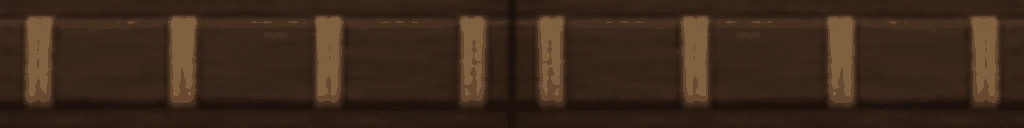
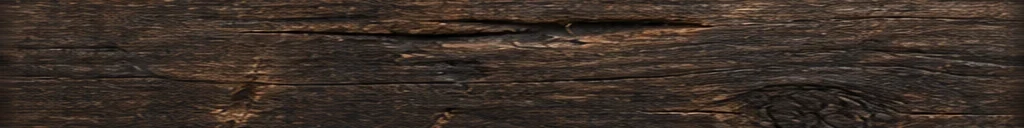
트레이 테두리 10종을 테마 모양으로 (GPT 초안 그림)
- 바다: 출렁이는 파도 · 물보라 / 벚꽃: 둥근 벚꽃나무 가지 고리 · 꽃송이 / 8비트: 진한 8비트 색 도트 테두리 · 도트 별 · 하트
- 왕실: 금속 금테 · 왕관 뾰족 장식 · 루비 · 사파이어 / 해적선 갑판: 네 꼭짓점 해적 깃발이 바람에 펄럭임 · 밧줄 매듭
- 마왕성: 톱니 흑철 · 악마 뿔 · 해골 · 칼날 가시 / 용암: 울퉁불퉁한 용암 바위 · 바위 덩어리 (틈이 빛남)
- 은하: 둥근 성운 고리 · 행성 · 초승달 · 별무리 / 빙하: 얼음 톱니 · 결정 · 고드름 · 눈 덮개 / 드래곤 둥지: 둥근 가지 둥지 · 뼈 · 알과 금화 · 비늘
- dice3d.js: 장식 그림판(addDecor) · 펄럭이는 깃발(makeFlag · flagTick), 둥근 틀이 스킨 질감을 쓴다(tube), 보석 없는 출렁 난간(gems:false), 장식 높이까지 화면 맞춤
- 둥근 트레이 3종도 둥근 물리 벽 (12번씩 굴려 확인), ART_VER a7

Claude-Session: https://claude.ai/code/session_014gChBYzVF9cfUwsBghVSK5

diff --git a/dice-heroes/dice3d.js b/dice-heroes/dice3d.js
@@ -8,7 +8,7 @@
 import * as THREE from './vendor/three.module.min.js';
 import * as CANNON from './vendor/cannon-es.js';
 import { RoundedBoxGeometry } from './vendor/RoundedBoxGeometry.js';
-import { drawDieFace, dieMatParams, dieGlows, dieImage, dieGlowImage, READY, loadImage, diceReady, preloadDice, drawTrayFloor, trayGlows, trayStyle, trayImage, trayReady, preloadTray, drawBoxFloor } from './skins.js';
+import { TRAY_DECOR, drawDieFace, dieMatParams, dieGlows, dieImage, dieGlowImage, READY, loadImage, diceReady, preloadDice, drawTrayFloor, trayGlows, trayStyle, trayImage, trayReady, preloadTray, drawBoxFloor } from './skins.js';
 
 // 원정 특수 주사위가 눈을 바꿀 때의 빛 색
 const MORPH_COLOR = { gold: 0xFFC83D, twin: 0xFF9AD0, stair: 0x3EE6B4, heavy: 0x9AA4B8 };
@@ -462,6 +462,8 @@ export class DiceTray {
       Object.values(this.fancyFrames || {}).forEach(f => { f.visible = f === frame; });
       this.plainFrame.forEach(o => { o.visible = !frame; });
       this.cornerR = st.oval || 0;
+      const dt = TRAY_DECOR[trayId] ? 2.05 : 0.7;
+      if (dt !== this.decorTop) { this.decorTop = dt; if (this.resizeObs) { this.lastW = 0; this.resize(); } }   // 장식 높이가 바뀌면 화면 맞춤을 다시
       this.floorMesh.visible = this.boxFloor.visible = !st.oval;   // 둥근 트레이는 모서리를 깎은 바닥 · 칸 바닥을 따로 쓴다 (같은 재질)
     }
   }
@@ -477,6 +479,7 @@ export class DiceTray {
       const t = base.clone();
       t.wrapS = THREE.RepeatWrapping; t.repeat.set(rx, 1); t.needsUpdate = true;
       t.colorSpace = THREE.SRGBColorSpace; t.anisotropy = 4;
+      if (st.pixel) { t.magFilter = THREE.NearestFilter; t.minFilter = THREE.NearestMipmapLinearFilter; }
       return t;
     };
     const mat = (kind, rx, glow) => {
@@ -516,22 +519,22 @@ export class DiceTray {
       if (rot) m.position.x = off; else m.position.z = off;
       m.castShadow = m.receiveShadow = true;
       grp.add(m);
-      // 난간 가운데 보석 (조금 떠서 솟은 모양) — fancy 일 때만
-      if (S.fancy) {
+      // 난간 가운데 보석 (조금 떠서 솟은 모양) — fancy 일 때만 (gems: false 면 장식 그림이 대신한다)
+      if (S.fancy && S.gems !== false) {
         const gem = this.frameGem(S, 0.17);
         gem.position.set(rot ? off : 0, H + bump(off * 3.1) + 0.16, rot ? 0 : off);
         grp.add(gem);
       }
     }
     // 네 모서리 기둥 + 꼭대기 보석
-    const PW = S.fancy ? 0.72 : T, PH = S.fancy ? H + 0.32 : H + 0.02;
+    const PW = S.fancy && S.gems !== false ? 0.72 : T, PH = S.fancy && S.gems !== false ? H + 0.32 : H + 0.02;
     const sideM = mat('corner_side', 1, false), topM = mat('corner_top', 1, false);
     for (const sx of [-1, 1]) for (const sz of [-1, 1]) {
       const post = new THREE.Mesh(new THREE.BoxGeometry(PW, PH, PW), [sideM, sideM, topM, topM, sideM, sideM]);
       post.position.set(sx * (TRAY_W / 2 + T / 2), PH / 2, sz * (TRAY_D / 2 + T / 2));
       post.castShadow = post.receiveShadow = true;
       grp.add(post);
-      if (S.fancy) {
+      if (S.fancy && S.gems !== false) {
         const gem = this.frameGem(S, 0.24);
         gem.position.set(post.position.x, PH + 0.24, post.position.z);
         grp.add(gem);
@@ -546,6 +549,7 @@ export class DiceTray {
       m.castShadow = m.receiveShadow = true;
       grp.add(m);
     }
+    this.addDecor(grp, id, st);
     this.scene.add(grp);
     return grp;
   }
@@ -566,20 +570,26 @@ export class DiceTray {
     const floor = new THREE.Mesh(fg, this.floorMesh.material);
     floor.rotation.x = -Math.PI / 2; floor.receiveShadow = true;
     grp.add(floor);
-    const tex = this.imageTex(trayImage(id, 'cushion')).clone();
+    const TB = st.tube || {};
+    const tex = this.imageTex(trayImage(id, TB.tex || 'cushion')).clone();
     tex.wrapS = THREE.RepeatWrapping; tex.colorSpace = THREE.SRGBColorSpace; tex.needsUpdate = true;
-    const leather = new THREE.MeshStandardMaterial({ map: tex, roughness: 0.42, metalness: 0.05, envMap: this.envMap(), envMapIntensity: 0.55 });
+    const leather = new THREE.MeshStandardMaterial({ map: tex, roughness: TB.rough ?? 0.42, metalness: TB.metal ?? 0.05, envMap: this.envMap(), envMapIntensity: 0.55 });
+    if (TB.glow && st.railGlow) {
+      const gt = this.imageTex(trayImage(id, 'rail_glow')).clone(); gt.wrapS = THREE.RepeatWrapping; gt.needsUpdate = true;
+      leather.emissive = new THREE.Color(0xFFFFFF); leather.emissiveMap = gt; leather.emissiveIntensity = TB.glow;
+    }
     // 둥근 사각형 둘레를 따라 가는 관 (단면은 위아래로 조금 납작한 원)
     const cushion = (hw, hd, r, rad, h, rep) => {
       const pts = rr(hw, hd, r).getSpacedPoints(220).map(q => new THREE.Vector3(q.x, 0, -q.y));
       const g = new THREE.TubeGeometry(new THREE.CatmullRomCurve3(pts, true), 440, rad, 18, true);
       const m = new THREE.Mesh(g, leather.clone());
       m.material.map = tex.clone(); m.material.map.repeat.set(rep, 1); m.material.map.needsUpdate = true;
+      if (m.material.emissiveMap) { m.material.emissiveMap = m.material.emissiveMap.clone(); m.material.emissiveMap.repeat.set(rep, 1); m.material.emissiveMap.needsUpdate = true; }
       m.scale.y = 0.85; m.position.y = h; m.castShadow = m.receiveShadow = true;
       return m;
     };
-    const CR = 0.3, off = CR - 0.02;   // 쿠션 안쪽 면이 벽(바닥 가장자리)에 닿게
-    grp.add(cushion(TRAY_W / 2 + off, TRAY_D / 2 + off, R + off, CR, CR * 0.95, 22));
+    const CR = TB.rad || 0.3, off = CR - 0.02;   // 쿠션 안쪽 면이 벽(바닥 가장자리)에 닿게
+    grp.add(cushion(TRAY_W / 2 + off, TRAY_D / 2 + off, R + off, CR, CR * 0.95, TB.rep || 22));
     // 앞쪽 주사위 칸: 얇은 쿠션 고리
     const bz0 = TRAY_D / 2 + 2 * CR, bz1 = BOX_Z + BOX_D / 2 + BOX_T, bc = 0.17;
     const ring = cushion(BOX_OUT - bc, (bz1 - bz0) / 2 - bc, 0.55, bc, bc * 0.95, 18);
@@ -592,8 +602,68 @@ export class DiceTray {
     const bf = new THREE.Mesh(bg, this.boxFloor.material);
     bf.rotation.x = -Math.PI / 2; bf.position.set(0, 0.002, (bz0 + bz1) / 2); bf.receiveShadow = true;
     grp.add(bf);
+    this.addDecor(grp, id, st);
     this.scene.add(grp);
     return grp;
+  }
+  // 테두리 장식 그림 (skins.js TRAY_DECOR): 배치도 자리에 아래쪽 기준으로 세운 그림판(항상 카메라를 향함).
+  // 뒤 · 옆은 크게, 앞쪽(front)은 낮게. 해적 깃발은 깃대 + 바람에 펄럭이는 천 (flagTick)
+  addDecor(grp, id, st) {
+    const list = TRAY_DECOR[id];
+    if (!list) return;
+    const wx = px => (px - 160) / 120 - TRAY_W / 2;
+    const wz = py => (py >= 1000 ? TRAY_D / 2 + RAIL_T + (py - 1050) / 120 : (py - 160) / 120 - TRAY_D / 2);
+    const top = st.oval ? (st.tube?.rad || 0.3) * 1.7 : 0.7;
+    for (const [n, asp, px, py, front] of list) {
+      const x = wx(px), z = wz(py);
+      if (n === 'flagpole') continue;
+      if (n === 'flag_cloth') { grp.add(this.makeFlag(id, x, z, front, top)); continue; }
+      const h = front ? 0.55 : (n.match(/point|spike|horn|icicle|fissure|crystal/) ? 1.2 : 1.0);
+      const tex = this.imageTex(trayImage(id, `decor_${n}`)); tex.colorSpace = THREE.SRGBColorSpace;
+      if (st.pixel) { tex.magFilter = THREE.NearestFilter; }
+      const sp = new THREE.Sprite(new THREE.SpriteMaterial({ map: tex, transparent: true, alphaTest: 0.08, depthWrite: false }));
+      sp.center.set(0.5, 0.12);
+      sp.scale.set(h * asp, h, 1);
+      sp.position.set(x, top - 0.05, z);
+      sp.renderOrder = 2;
+      grp.add(sp);
+    }
+  }
+  makeFlag(id, x, z, front, top) {
+    const g = new THREE.Group(), s = front ? 0.55 : 1;
+    const ph = 1.15 * s;
+    const pole = new THREE.Mesh(new THREE.CylinderGeometry(0.035 * s + 0.01, 0.045 * s + 0.01, ph, 8), new THREE.MeshStandardMaterial({ color: 0x3A2618, roughness: 0.7 }));
+    pole.position.y = ph / 2; pole.castShadow = true; g.add(pole);
+    const knob = new THREE.Mesh(new THREE.SphereGeometry(0.06 * s + 0.02, 10, 8), new THREE.MeshStandardMaterial({ color: 0xC8A060, roughness: 0.35, metalness: 0.7 }));
+    knob.position.y = ph; g.add(knob);
+    const fw = 1.25 * s, fh = 0.85 * s, dir = (x < 0 ? -1 : 1) * (front ? 1 : -1);   // 뒤 깃발은 안쪽(트레이 위 하늘)으로, 앞 깃발은 바깥쪽으로 휘날린다
+    const geo = new THREE.PlaneGeometry(fw, fh, 14, 6);
+    geo.translate(fw / 2, 0, 0);
+    const tex = this.imageTex(trayImage(id, 'decor_flag_cloth')); tex.colorSpace = THREE.SRGBColorSpace;
+    const cloth = new THREE.Mesh(geo, new THREE.MeshStandardMaterial({ map: tex, transparent: true, alphaTest: 0.1, side: THREE.DoubleSide, roughness: 0.9 }));
+    cloth.position.y = ph - fh / 2 - 0.04;
+    cloth.scale.x = dir;
+    cloth.userData.base = Float32Array.from(geo.attributes.position.array);
+    cloth.userData.fw = fw; cloth.userData.seed = x * 1.7 + z;
+    g.add(cloth);
+    g.position.set(x, top - 0.1, z);
+    g.rotation.z = (x < 0 ? 1 : -1) * (front ? 0.2 : 0.04);   // 깃대는 바깥쪽으로 살짝 (앞 깃발은 더)
+    g.rotation.x = front ? -0.5 : -0.85;   // 카메라가 위에서 내려다봐서 똑바로 서면 납작해 보인다 — 뒤로 눕혀 깃발 면이 화면을 향하게
+    (this.flags ||= []).push(cloth);
+    return g;
+  }
+  // 깃발 천 펄럭임: 깃대에서 멀수록 크게 출렁이는 물결 (초당 30번만 다시 그린다)
+  flagTick(t) {
+    for (const c of this.flags || []) {
+      if (!c.parent?.parent?.visible) continue;
+      const p = c.geometry.attributes.position, b = c.userData.base, fw = c.userData.fw, sd = c.userData.seed;
+      for (let i = 0; i < p.count; i++) {
+        const x = b[i * 3], y = b[i * 3 + 1], k = x / fw;
+        p.setZ(i, Math.sin(x * 7 - t * 0.006 + sd) * 0.09 * k + Math.sin(x * 3.1 - t * 0.0037 + y * 4) * 0.05 * k);
+        p.setY(i, y - k * k * 0.06 + Math.sin(t * 0.004 + x * 5) * 0.02 * k);
+      }
+      p.needsUpdate = true; c.geometry.computeVertexNormals();
+    }
   }
   // 난간 장식 보석: 스킨 색의 팔면체(진주는 구), 빛나는 스킨은 스스로 빛난다
   frameGem(S, r) {
@@ -654,10 +724,11 @@ export class DiceTray {
     // 앞쪽 주사위 함은 카메라에 가까워서(원근으로 더 커 보인다) 좁은 화면에선 양 끝이 잘렸다.
     // 함 바닥 양 끝 · 난간 모서리가 화면 안에 들어올 때까지 조금씩 물러난다 (함 바깥 끝은 이제 난간 바깥 끝과 같은 선)
     const XE = BOX_OUT - 0.15, XR = BOX_OUT;
-    const corners = [[XE, 0, BOX_Z + BOX_D / 2], [XE, 0, BOX_Z - BOX_D / 2], [XR, 0.7, SCENE_Z0], [XR, 0.7, -SCENE_Z0]];
+    // 뒤쪽에 높은 장식(깃발 · 왕관 · 뿔)이 있는 트레이는 그 높이까지 화면에 담는다
+    const corners = [[XE, 0, BOX_Z + BOX_D / 2], [XE, 0, BOX_Z - BOX_D / 2], [XR, this.decorTop || 0.7, SCENE_Z0], [XR, 0.7, -SCENE_Z0]];
     const v = new THREE.Vector3();
     for (let k = 0; k < 40; k++) {
-      const out = corners.some(([x, y, z]) => { v.set(x, y, z).project(this.camera); return Math.abs(v.x) > 0.985 || Math.abs(v.y) > 0.985; });
+      const out = corners.some(([x, y, z], i) => { v.set(x, y, z).project(this.camera); const lim = i === 2 && (this.decorTop || 0.7) > 0.7 ? 0.9 : 0.985; return Math.abs(v.x) > 0.985 || Math.abs(v.y) > lim; });   // 장식 끝 위로 여유
       if (!out) break;
       dist *= 1.025;
       place();
@@ -1283,9 +1354,12 @@ export class DiceTray {
     const moving = this.anim || this.live || this.shrink || this.dice.some(d => d.morph || d.wobble || d.hop || d.auraI > 0.01 || Math.abs(this.liftWant(d) - d.lift) > 0.002);
     const glowing = this.twinkle || this.dice.some(d => d.glow.visible);
     if (this.twinkle) for (let v = 1; v <= 6; v++) { const m = this.faceMats[v]; m.emissiveIntensity = (m.userData.glowBase || 0.5) * (0.85 + Math.sin(t / 380 + v * 1.7) * 0.35); }   // 별빛이 반짝인다
+    const flags = this.flags?.some(c => c.parent?.parent?.visible);
     if (!moving && !this.dirty) {
-      if (!glowing || t - (this.lastDraw || 0) < 100) return;
+      if (flags && t - (this.lastDraw || 0) >= 33) { /* 깃발이 펄럭인다 */ }
+      else if (!glowing || t - (this.lastDraw || 0) < 100) return;
     }
+    if (flags) this.flagTick(t);
     this.dirty = false;
     this.lastDraw = t;
     if (this.live) this.stepLive(t);

diff --git a/dice-heroes/skins.js b/dice-heroes/skins.js
@@ -98,7 +98,7 @@ export const dieGlows = id => !!DIE_MAT[id]?.glow;
 // 그림 주소 끝에 그림 버전(ART_VER)을 붙인다. 게임 버전을 붙이면 업데이트마다 주사위 · 트레이 그림을 전부 다시 받아서
 // 첫 판에 트레이가 늦게 뜨곤 했다. 주사위 · 트레이 그림 파일을 바꾸거나 더하면 sw.js 의 ART_VER 와 함께 올린다
 // (안 올려도 sw.js 가 뒤에서 새 그림을 받아 두어 다음 실행부터는 새 그림 — 올리면 바로)
-export const ART_VER = 'a6';
+export const ART_VER = 'a7';
 const AV = `?v=${ART_VER}`;
 export const dieImage = (id, v) => (DIE_MAT[id]?.image ? `assets/dice/${id}/${v}.webp${AV}` : null);
 export const dieGlowImage = (id, v) => (DIE_MAT[id]?.glowImage ? `assets/dice/${id}/${v}_glow.webp${AV}` : null);
@@ -406,28 +406,42 @@ const TRAY_STYLE = {
 //   railGlow: rail_glow.webp 로 난간이 빛난다. 기본(classic) 트레이는 rails 가 없어 예전 나무 테두리 그대로
 const IMAGE_TRAY = {
   marble: { rail: 0xE9DFCB, trim: 0xD4A443, trimEnv: true, glow: 0.3, rails: { shape: 'scallop', amp: 0.09, freq: 2.2, gemColor: 0xFFC83D, metal: 0.15 } },
-  royal: { rail: 0x7E1222, trim: 0xFFC83D, trimEnv: true, glow: 0.35, rails: { shape: 'scallop', amp: 0.13, freq: 1.9, gemColor: 0xE8152A, metal: 0.3 } },
-  deepsea: { rail: 0x1E4A52, trim: 0xD8B45A, trimEnv: true, glow: 0.55, rails: { shape: 'wave', amp: 0.16, freq: 2.6, gem: 'pearl', gemColor: 0xF2F0E6 } },
-  demon: { rail: 0x15101C, trim: 0xB36BFF, trimGlow: true, glow: 0.9, railGlow: true, rails: { shape: 'jag', amp: 0.2, freq: 3.2, gemColor: 0xB36BFF, gemGlow: true, rough: 0.6 } },   // 보라 · 검정 테마
-  sakura: { rail: 0xA8744A, trim: 0xF5A8C0, trimEnv: true, glow: 0.35, rails: { shape: 'wave', amp: 0.12, freq: 2.0, gemColor: 0xFF9AD0, metal: 0.1 } },
-  lava: { rail: 0x2B2422, trim: 0xFF7A1A, trimGlow: true, glow: 1.1, railGlow: true, rails: { shape: 'rock', amp: 0.2, freq: 1.7, gemColor: 0xFF7A1A, gemGlow: true, rough: 0.8, metal: 0.05 } },
-  starry: { rail: 0x161C52, trim: 0xE6C35C, trimEnv: true, glow: 0.8, railGlow: true, rails: { shape: 'wave', amp: 0.1, freq: 2.4, gemColor: 0x9AD6FF, gemGlow: true, metal: 0.3 } },
+  royal: { rail: 0xB8892E, trim: 0xFFC83D, trimEnv: true, glow: 0.35, rails: { shape: 'scallop', amp: 0.07, freq: 2.6, fancy: true, gems: false, metal: 0.85, rough: 0.28 } },   // 금속 금테 · 왕관 뾰족 장식
+  deepsea: { rail: 0x1E5A66, trim: 0xD8F0F0, trimEnv: true, glow: 0.55, rails: { shape: 'wave', amp: 0.2, freq: 2.2, fancy: true, gems: false, metal: 0.15, rough: 0.3 } },   // 바다: 출렁이는 파도 · 물보라
+  demon: { rail: 0x15101C, trim: 0xB36BFF, trimGlow: true, glow: 0.9, railGlow: true, rails: { shape: 'jag', amp: 0.24, freq: 3.4, fancy: true, gems: false, rough: 0.55, metal: 0.3 } },   // 날카로운 흑철 · 가시 · 뿔
+  sakura: { rail: 0x6A4028, trim: 0xF5A8C0, glow: 0.35, oval: 1.5, tube: { tex: 'rail_side', rad: 0.3, rough: 0.85, metal: 0, rep: 14 } },   // 둥근 벚꽃나무 가지
+  lava: { rail: 0x2B2422, trim: 0xFF7A1A, trimGlow: true, glow: 1.1, railGlow: true, rails: { shape: 'rock', amp: 0.26, freq: 1.6, fancy: true, gems: false, rough: 0.85, metal: 0.05 } },   // 울퉁불퉁한 용암 바위
+  starry: { rail: 0x161C52, trim: 0xE6C35C, glow: 0.8, railGlow: true, oval: 1.7, tube: { tex: 'rail_side', rad: 0.3, rough: 0.35, metal: 0.2, rep: 12, glow: 0.9 } },   // 둥근 성운 고리
   // v0.39.10 새 트레이 7종 (디자인 세션 그림, 장식 없는 재질 하나 · 곧은 난간)
-  pixel8: { rail: 0x32233B, trim: 0x967348, glow: 0, rails: { gemColor: 0x967348, rough: 0.8, metal: 0 } },
-  deck: { rail: 0x443024, trim: 0x8E7958, glow: 0, rails: { gemColor: 0x8E7958, rough: 0.8, metal: 0.05 } },
+  pixel8: { rail: 0x32233B, trim: 0x967348, glow: 0, pixel: true, rails: { gemColor: 0x967348, rough: 0.8, metal: 0 } },   // 8비트 색 도트 테두리 (그림을 또렷하게)
+  deck: { rail: 0x443024, trim: 0x8E7958, glow: 0, flags: true, rails: { gemColor: 0x8E7958, rough: 0.8, metal: 0.05 } },   // 네 꼭짓점에 펄럭이는 해적 깃발
   // 포커 테이블: 모서리가 둥근 경기장 모양 (oval = 모서리 반지름). 바닥에 파란 펠트 · 마호가니 띠, 둘레는 검은 가죽 쿠션 (cushion.webp) — dice3d.js buildOvalFrame
   casino: { rail: 0x141418, trim: 0x6A2A1A, glow: 0, oval: 1.8 },
   alchemy: { rail: 0x5A4B31, trim: 0x9A8758, trimEnv: true, glow: 0, rails: { gemColor: 0x9A8758, rough: 0.6, metal: 0.25 } },
   ruins: { rail: 0x373E3E, trim: 0x667C79, glow: 0.45, railGlow: true, rails: { gemColor: 0x3EC8FF, rough: 0.85, metal: 0 } },
-  glacier: { rail: 0x335E78, trim: 0xA6CAD7, trimEnv: true, glow: 0.45, railGlow: true, rails: { gemColor: 0xA6CAD7, rough: 0.2, metal: 0.05 } },
-  dragonnest: { rail: 0x211923, trim: 0x71313A, glow: 0.5, railGlow: true, rails: { gemColor: 0xE8435A, rough: 0.5, metal: 0.35 } },
+  glacier: { rail: 0x335E78, trim: 0xA6CAD7, trimEnv: true, glow: 0.45, rails: { shape: 'jag', amp: 0.12, freq: 3.0, fancy: true, gems: false, rough: 0.2, metal: 0.05 } },   // 얼음 결정이 붙은 테두리
+  dragonnest: { rail: 0x3A2618, trim: 0x71313A, glow: 0.5, oval: 1.6, tube: { tex: 'rail_side', rad: 0.34, rough: 0.9, metal: 0, rep: 12 } },   // 가지 · 뼈로 쌓은 둥근 둥지
+};
+// 테두리 장식 (v0.39.21, GPT 초안 부품 그림 assets/trays/<스킨>/decor_<이름>.webp): [이름, 가로/세로 비, 배치도 x, y, 앞쪽(낮게)]
+//   배치도: 바닥 왼위 = (160,160), 120px = 1 유닛, 앞 보관 칸은 y 1050~1314. 깃발(flag_cloth · flagpole)은 3D 로 따로 만든다
+export const TRAY_DECOR = {
+  deepsea: [["wave_crest",1.04,136,136,0],["wave_crest",1.04,1384,136,0],["foam_arc",1.22,500,132,0],["foam_arc",1.22,1020,132,0],["wave_corner",0.99,132,430,0],["wave_corner",0.99,1388,430,0],["small_ripple",3.51,740,1338,1]],
+  sakura: [["blossom_cluster",1.01,136,136,0],["blossom_cluster",1.01,1384,136,0],["branch_fork",1.07,132,430,0],["branch_fork",1.07,1388,430,0],["single_blossom",1.01,550,132,0],["single_blossom",1.01,970,132,0],["branch_corner",0.82,136,952,1],["branch_corner",0.82,1384,952,1]],
+  pixel8: [["pixel_star",0.94,136,136,0],["pixel_heart",1.11,1384,136,0],["corner_block",0.97,132,450,0],["corner_block",0.97,1388,450,0],["step_block",1.16,450,132,0],["step_block",1.16,1070,132,0]],
+  royal: [["crown_point",0.84,300,132,0],["crown_point",0.84,500,132,0],["crown_point",0.84,700,132,0],["crown_point",0.84,900,132,0],["crown_point",0.84,1100,132,0],["crown_point",0.84,1300,132,0],["ruby_setting",0.93,136,136,0],["ruby_setting",0.93,1384,136,0],["sapphire_setting",0.84,132,480,0],["sapphire_setting",0.84,1388,480,0],["filigree_corner",0.95,136,952,1],["filigree_corner",0.95,1384,952,1]],
+  deck: [["flag_cloth",1.41,136,136,0],["flag_cloth",1.41,1384,136,0],["flag_cloth",1.41,136,952,1],["flag_cloth",1.41,1384,952,1],["flagpole",0.18,136,136,0],["flagpole",0.18,1384,136,0],["flagpole",0.18,136,952,1],["flagpole",0.18,1384,952,1],["rope_knot",1.86,470,132,0],["rope_knot",1.86,1050,132,0],["timber_corner",1.25,136,1338,1],["timber_corner",1.25,1384,1338,1]],
+  demon: [["demon_horn",0.73,136,136,0],["demon_horn",0.73,1384,136,0],["skull_corner",0.78,400,132,0],["skull_corner",0.78,1120,132,0],["blade_spike",0.48,132,450,0],["blade_spike",0.48,1388,450,0],["violet_crystal",0.39,760,132,0]],
+  lava: [["basalt_cluster",1.25,136,136,0],["basalt_cluster",1.25,1384,136,0],["lava_fissure",0.53,460,132,0],["lava_fissure",0.53,1060,132,0],["basalt_corner",1.01,132,520,0],["basalt_corner",1.01,1388,520,0],["small_rock",2.0,450,1338,1],["small_rock",2.0,1070,1338,1]],
+  starry: [["crescent",1.26,1384,136,0],["small_planet",1.32,136,136,0],["star_cluster",0.89,530,132,0],["star_cluster",0.89,990,132,0],["nebula_corner",1.07,132,520,0],["nebula_corner",1.07,1388,520,0]],
+  glacier: [["ice_cluster",1.0,136,136,0],["ice_cluster",1.0,1384,136,0],["icicle",1.0,132,410,0],["icicle",1.0,1388,410,0],["snow_cap",1.35,460,132,0],["snow_cap",1.35,1060,132,0],["ice_corner",0.93,136,952,1],["ice_corner",0.93,1384,952,1]],
+  dragonnest: [["nest_branch",0.95,136,136,0],["nest_branch",0.95,1384,136,0],["bone_fragment",1.08,132,450,0],["bone_fragment",1.08,1388,450,0],["egg_coins",1.51,500,132,0],["red_scales",1.35,1020,132,0]],
 };
 export const trayStyle = id => (IMAGE_TRAY[id] ? { ...(TRAY_STYLE[id] || TRAY_STYLE.classic), ...IMAGE_TRAY[id], image: true } : TRAY_STYLE[id] || TRAY_STYLE.classic);
 // 그림 트레이의 파일 주소 (kind: floor · glow · box · thumb). 코드로 그리는 트레이는 null
 export const trayImage = (id, kind) => (IMAGE_TRAY[id] ? `assets/trays/${id}/${kind}.webp${AV}` : null);
 // 트레이 그림도 미리 받아 둔다 (꾸미기에서 고르면 바닥이 비었다가 뒤늦게 뜨지 않게)
 export const RAIL_FILES = ['rail_top', 'rail_side', 'corner_side', 'corner_top'];
-const trayImages = id => [...['floor', 'glow', 'box'], ...(IMAGE_TRAY[id]?.rails ? RAIL_FILES : []), ...(IMAGE_TRAY[id]?.oval ? ['cushion'] : []), ...(IMAGE_TRAY[id]?.railGlow ? ['rail_glow'] : [])].map(k => trayImage(id, k)).filter(Boolean);
+const trayImages = id => [...['floor', 'glow', 'box'], ...(IMAGE_TRAY[id]?.rails ? RAIL_FILES : []), ...(IMAGE_TRAY[id]?.oval ? [IMAGE_TRAY[id].tube?.tex || 'cushion'] : []), ...[...new Set((TRAY_DECOR[id] || []).map(m => `decor_${m[0]}`))], ...(IMAGE_TRAY[id]?.railGlow ? ['rail_glow'] : [])].map(k => trayImage(id, k)).filter(Boolean);
 export const trayReady = id => trayImages(id).every(u => READY.has(u));
 export const preloadTray = id => Promise.all(trayImages(id).map(loadImage));
 

diff --git a/dice-heroes/sw.js b/dice-heroes/sw.js
@@ -5,7 +5,7 @@
 // 그래서 새 버전을 배포하면 다음 실행에 바로 반영되고, 신호가 약해도 멈춰 있지 않는다.
 // 이름을 바꾸면 예전 캐시를 통째로 지운다 (v0.30.7: 버전이 안 붙은 예전 주사위·트레이 그림이 남아 있어서)
 const BGM_VER = 'b2';   // audio.js 의 BGM_VER 와 같아야 한다 (곡을 바꾸면 둘 다 올린다)
-const ART_VER = 'a6';  // skins.js 의 ART_VER 와 같아야 한다 (주사위 · 트레이 그림을 바꾸면 둘 다 올린다)
+const ART_VER = 'a7';  // skins.js 의 ART_VER 와 같아야 한다 (주사위 · 트레이 그림을 바꾸면 둘 다 올린다)
 const CACHE = 'dh-cache-3';   // v0.37.5: 버전이 안 붙은 예전 보스 곡(도입부 없는 루프)을 지운다
 const FILES = [
   './', 'index.html', 'style.css', 'app.js', 'engine.js', 'config.js', 'audio.js', 'dice3d.js', 'pixel.js',
@@ -17,8 +17,10 @@ const FILES = [
   ...['dragon', 'orc', 'lich', 'hydra', 'cyclops', 'overlord', 'demon', 'archdemon'].map(id => `assets/boss/${id}.webp`),
   ...['warrior', 'rogue', 'mage', 'bard', 'gambler', 'monk', 'dancer', 'outlaw', 'sharper'].map(k => `assets/heroes/${k}.webp`),
   // 그림 주사위 · 트레이 스킨: 앱이 부르는 주소 그대로(?v=그림 버전) → 설치할 때부터 캐시에 있어 첫 판부터 바로 뜬다
-  ...['marble', 'royal', 'deepsea', 'demon', 'sakura', 'lava', 'starry', 'pixel8', 'deck', 'alchemy', 'ruins', 'glacier', 'dragonnest'].flatMap(k => ['floor', 'glow', 'box', 'thumb', 'rail_top', 'rail_side', 'corner_side', 'corner_top', ...(['demon', 'lava', 'starry', 'ruins', 'glacier', 'dragonnest'].includes(k) ? ['rail_glow'] : [])].map(f => `assets/trays/${k}/${f}.webp?v=${ART_VER}`)),
-  ...['floor', 'glow', 'box', 'thumb', 'cushion'].map(f => `assets/trays/casino/${f}.webp?v=${ART_VER}`),   // 둥근 포커 테이블 (난간 그림 대신 쿠션)
+  ...['marble', 'royal', 'deepsea', 'demon', 'sakura', 'lava', 'starry', 'pixel8', 'deck', 'alchemy', 'ruins', 'glacier', 'dragonnest'].flatMap(k => ['floor', 'glow', 'box', 'thumb', 'rail_top', 'rail_side', 'corner_side', 'corner_top', ...(['demon', 'lava', 'starry', 'ruins'].includes(k) ? ['rail_glow'] : [])].map(f => `assets/trays/${k}/${f}.webp?v=${ART_VER}`)),
+  ...['floor', 'glow', 'box', 'thumb', 'cushion'].map(f => `assets/trays/casino/${f}.webp?v=${ART_VER}`),
+  // 테두리 장식 그림 (v0.39.21)
+  ...Object.entries({"deck": ["decor_flag_cloth", "decor_flagpole", "decor_rope_knot", "decor_timber_corner"], "deepsea": ["decor_foam_arc", "decor_small_ripple", "decor_wave_corner", "decor_wave_crest"], "demon": ["decor_blade_spike", "decor_demon_horn", "decor_skull_corner", "decor_violet_crystal"], "dragonnest": ["decor_bone_fragment", "decor_egg_coins", "decor_nest_branch", "decor_red_scales"], "glacier": ["decor_ice_cluster", "decor_ice_corner", "decor_icicle", "decor_snow_cap"], "lava": ["decor_basalt_cluster", "decor_basalt_corner", "decor_lava_fissure", "decor_small_rock"], "pixel8": ["decor_corner_block", "decor_pixel_heart", "decor_pixel_star", "decor_step_block"], "royal": ["decor_crown_point", "decor_filigree_corner", "decor_ruby_setting", "decor_sapphire_setting"], "sakura": ["decor_blossom_cluster", "decor_branch_corner", "decor_branch_fork", "decor_single_blossom"], "starry": ["decor_crescent", "decor_nebula_corner", "decor_small_planet", "decor_star_cluster"]}).flatMap(([k, fs]) => fs.map(f => `assets/trays/${k}/${f}.webp?v=${ART_VER}`)),   // 둥근 포커 테이블 (난간 그림 대신 쿠션)
   ...['openheart', 'gold', 'cosmic', 'black', 'heart', 'keycap', 'clear', 'minimal', 'dragon', 'lava', 'pixel', 'bone', 'slime', 'chip', 'chest', 'porcelain', 'frost', 'rune', 'brass', 'wisp'].flatMap(k => [1, 2, 3, 4, 5, 6].map(v => `assets/dice/${k}/${v}.webp?v=${ART_VER}`)),
   ...['dragon', 'lava', 'frost', 'rune', 'brass', 'wisp'].flatMap(k => [1, 2, 3, 4, 5, 6].map(v => `assets/dice/${k}/${v}_glow.webp?v=${ART_VER}`)),
 ];

diff --git a/dice-heroes/config.js b/dice-heroes/config.js
@@ -3,6 +3,6 @@ export const GAME = {
   name: '요트 히어로즈',
   en: 'YACHT HEROES',
   studio: 'HAHAHOHO COMPANY',
-  version: '0.39.20',
+  version: '0.39.21',
   year: 2026,
 };
